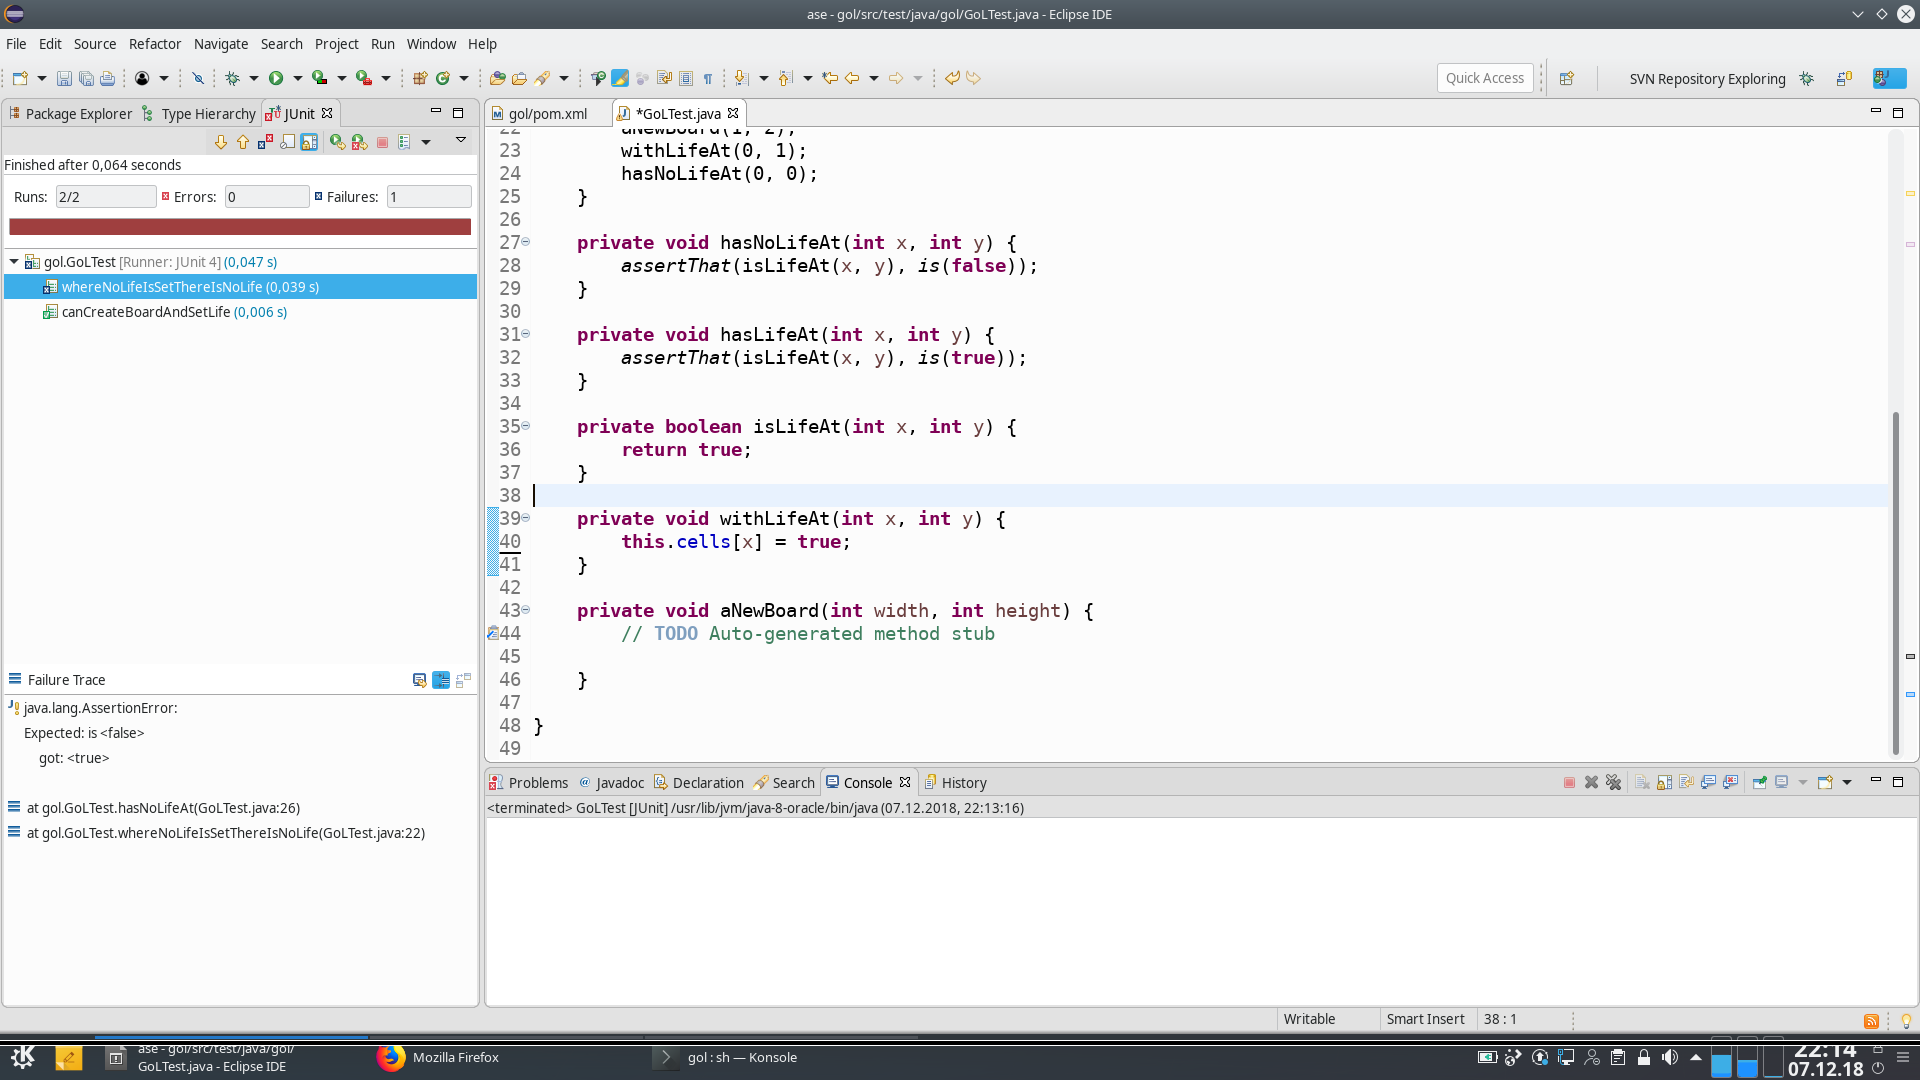
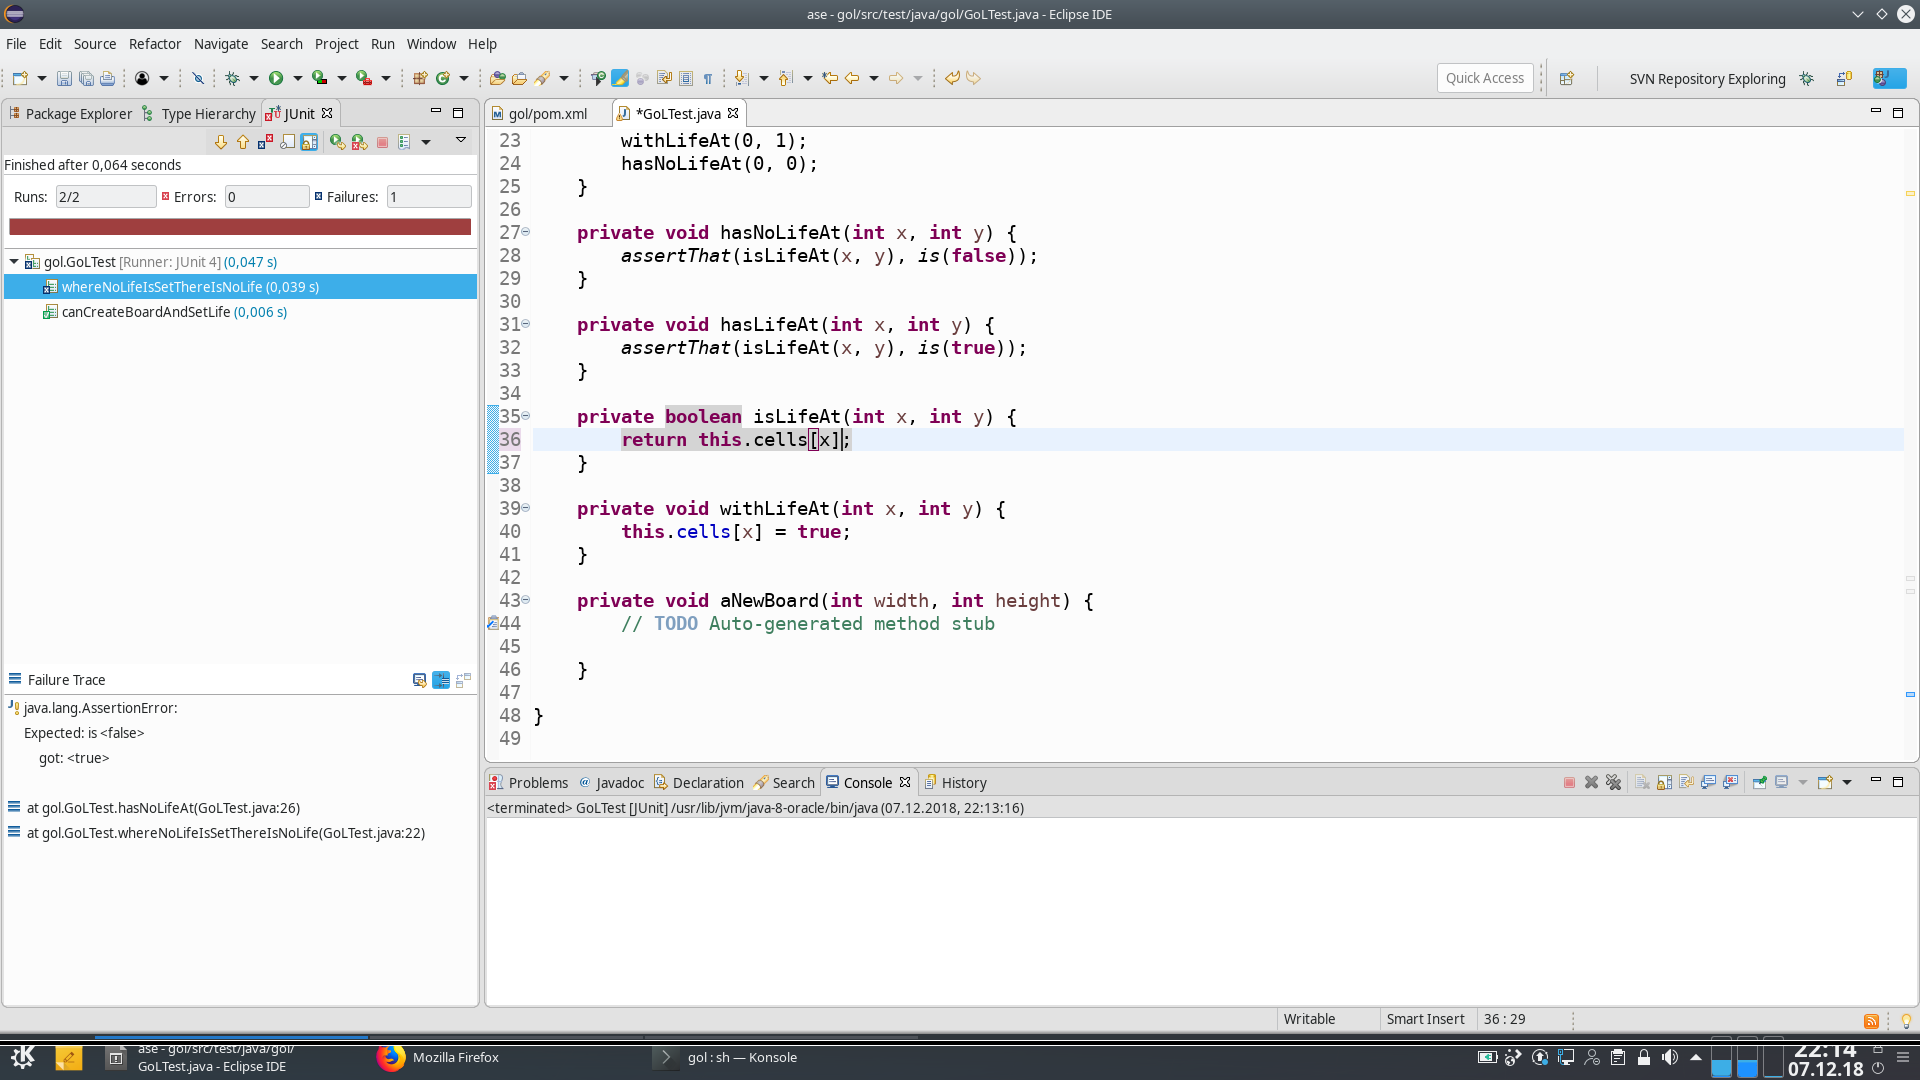
autocommit on change

diff --git a/src/test/java/gol/GoLTest.java b/src/test/java/gol/GoLTest.java
@@ -33,7 +33,7 @@ public class GoLTest {
 	}
 
 	private boolean isLifeAt(int x, int y) {
-		return true;
+		return this.cells[x];
 	}
 
 	private void withLifeAt(int x, int y) {
